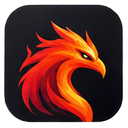
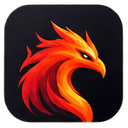
fix(brand): scale size variants to fill target canvas
Square declensions used thumbnail, which never upscales, so e.g.
icon-app-phoenix-256 kept the 168px master centered in empty padding.
Masters stay byte-identical to the provided slices; only size files change.

diff --git a/docs/brand/README.md b/docs/brand/README.md
@@ -13,7 +13,10 @@ This folder holds:
 1. Byte-identical renamed masters (`logo-banner.png`, …)
 2. Width/size variants (`-readme`, `-desktop`, `-mobile`, `-256`, `-128`, `-64`, favicons)
 
-Processing rule: **copy + LANCZOS resize only**. No flood-fill, no alpha rewriting.
+Processing rule: **byte-identical copy** of local slices for masters, then
+**LANCZOS scale** (up or down) for `-readme` / `-desktop` / `-mobile` /
+`-256` / `-128` / `-64` / favicons so the artwork fills the target size.
+Do not mutate `assets/`. Do not pad a small master into a larger empty canvas.
 
 ## Export timestamp → name map
 
